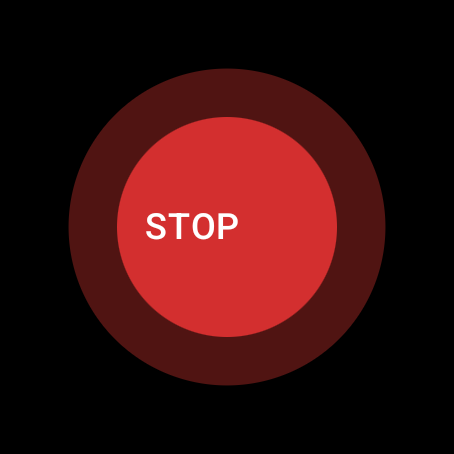
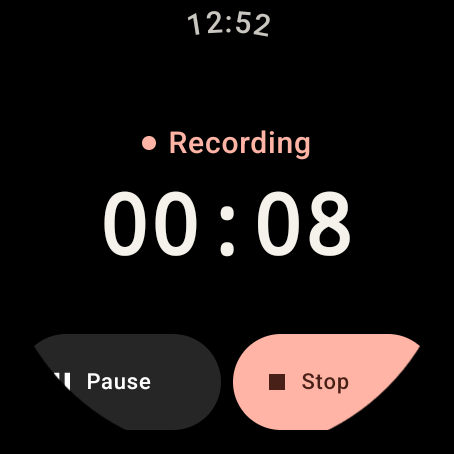
feat(playstore): update Wear OS preview screenshots from latest main
- Capture native Wear OS circular screenshots (454x454) for Idle, Active recording, Paused, Recordings list, Detail view, and Settings
- Provide full localized assets for English (en) and Korean (ko)
- Update web public assets in web/public/playstore/
- Update README.md showcase table and Play Store declarations

diff --git a/docs/playstore/listing_and_declarations.md b/docs/playstore/listing_and_declarations.md
@@ -77,7 +77,7 @@ HaptiLog is an eyes-free, haptic-first voice logger designed exclusively for Wea
 
 - **앱 아이콘 (App Icon)**: 512×512 PNG (`haptilog_icon_512.png`)
 - **그래픽 이미지 (Feature Graphic, 필수)**: 1024×500 PNG / JPEG (스토어 상단 배너 이미지)
-- **Wear OS 스크린샷 (Wear OS Screenshots, 최소 1개)**: `screenshots/` 디렉터리에 라운드 워치 스크린샷 5종 준비 완료
+- **Wear OS 스크린샷 (Wear OS Screenshots, 최소 1개)**: `screenshots/` 디렉터리에 최신 메인 빌드 기반 라운드 워치 스크린샷 6종(대기, 녹음 중, 일시정지, 기록 목록, AI 상세/재생, 설정) 영문(`screenshots/en/`) 및 국문(`screenshots/ko/`) 준비 완료 (454×454 Wear OS 규격)
 - **개인정보처리방침 URL (Privacy Policy URL, 필수)**:
   `https://haptilog.keepory.app/privacy.html`
   *(마이크 음성 녹음 및 위치 권한을 사용하는 앱은 공개 접근 가능한 유효한 URL 필수 입력)*

diff --git a/README.md b/README.md
@@ -7,9 +7,9 @@
 
 ## 📱 Screenshots
 
-| Idle Ready | Active Recording Pulse | Wear OS Watch Face |
-| :---: | :---: | :---: |
-| <img src="screenshots/01_idle_record_state.png" width="180"/> | <img src="screenshots/02_recording_active_state.png" width="180"/> | <img src="screenshots/04_wearos_watchface.png" width="180"/> |
+| Idle Ready | Active Recording Pulse | Voice Records History | Recording Detail & AI |
+| :---: | :---: | :---: | :---: |
+| <img src="screenshots/01_idle_record_state.png" width="160"/> | <img src="screenshots/02_recording_active_state.png" width="160"/> | <img src="screenshots/04_recordings_list.png" width="160"/> | <img src="screenshots/05_recording_detail.png" width="160"/> |
 
 ---
 
